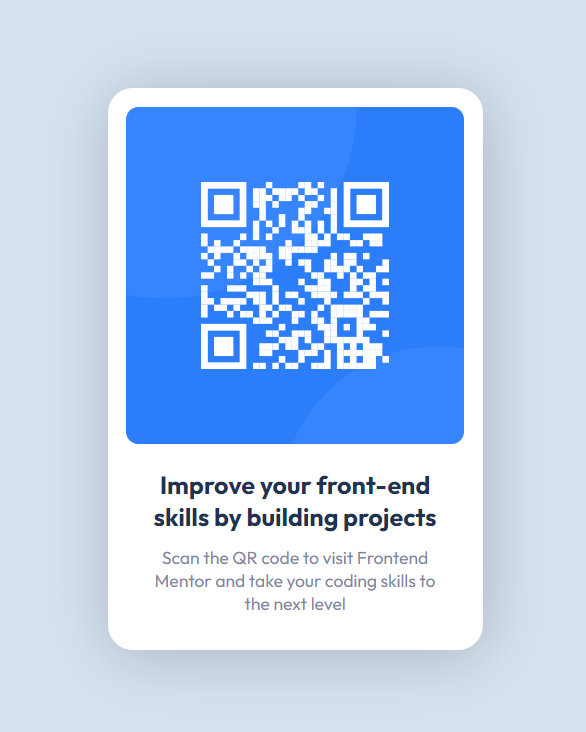
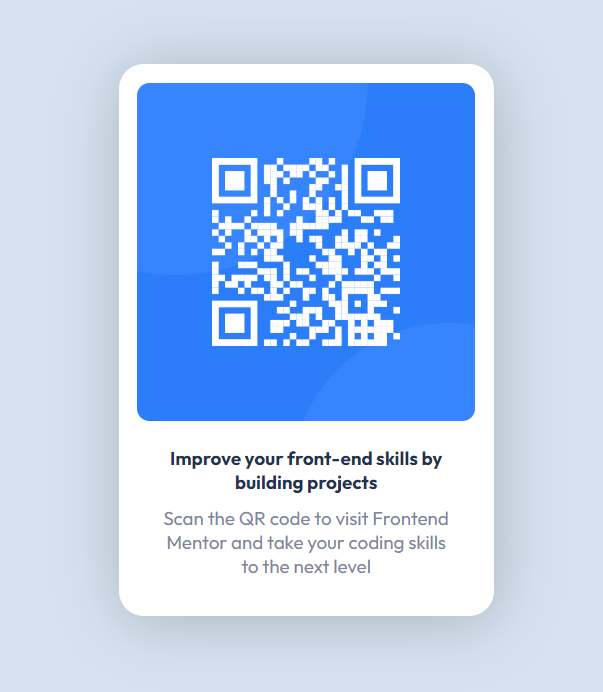
minor fixes

Changed region(s): [[0.1843, 0.091, 0.8294, 0.8801], [0.3379, 0.2124, 0.6758, 0.5159], [0.2457, 0.6373, 0.7679, 0.8497]]

diff --git a/index.html b/index.html
@@ -23,7 +23,7 @@
 			body {
 				display: grid;
 				place-content: center;
-				height: 100dvh;
+				min-height: 100vh;
 				font-family: 'Outfit', sans-serif;
 				background-color: var(--light-gray);
 			}
@@ -56,7 +56,6 @@
 				padding: var(--padding);
 				border-radius: calc(var(--inner-radius) + var(--padding));
 				width: 300px;
-				height: 450px;
 				box-shadow: 2px 4px 50px rgba(0, 0, 0, 0.2);
 			}
 
@@ -73,18 +72,18 @@
 			}
 
 			.card-content h1 {
-				font-size: 20px;
 				color: var(--dark-blue);
+				font-size: calc(15 / 16 * 1rem);
 			}
 
 			.card-content p {
-				font-size: 14px;
 				color: var(--grayish-blue);
+				font-size: calc(15 / 16 * 1rem);
 			}
 		</style>
 	</head>
 	<body>
-		<article class="card-wrapper">
+		<main class="card-wrapper">
 			<img src="images/image-qr-code.png" alt="qr-code" class="qr-code" />
 			<div class="card-content">
 				<h1>Improve your front-end skills by building projects</h1>
@@ -93,6 +92,6 @@
 					to the next level
 				</p>
 			</div>
-		</article>
+		</main>
 	</body>
 </html>
